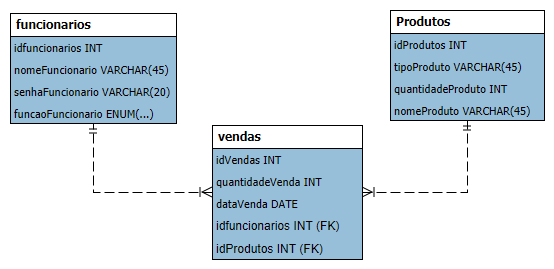
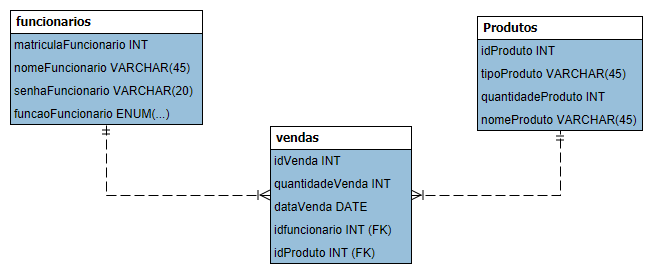
atualização banco de dados
modificado o banco conectado no arquivo de conexão

modificação do modelo logico e fisico, feita atualização de nomenclaturas

modificado os comando do funcionario no repository

diff --git a/lib/repository/funcionario_repository.dart b/lib/repository/funcionario_repository.dart
@@ -6,7 +6,7 @@ class FuncionarioRepository {
 
   Future<List<FuncionarioModels>> getAllFuncionarios() async {
     final connection = await _db.connect();
-    final result = await connection.query('SELECT * FROM funcionario;');
+    final result = await connection.query('SELECT * FROM funcionarios;');
 
     final funcionarios = result
         .map((e) => FuncionarioModels(
@@ -24,7 +24,7 @@ class FuncionarioRepository {
   Future<void> addFuncionario(FuncionarioModels funcionario) async {
     final connection = await _db.connect();
     await connection.query(
-        'insert into funcionario (nomeFuncionario, senhaFuncionario, funcaoFuncionario) values (?, ?, ?);',
+        'insert into funcionarios (nomeFuncionario, senhaFuncionario, funcaoFuncionario) values (?, ?, ?);',
         [
           funcionario.nomeFuncionario,
           funcionario.senhaFuncionario,
@@ -37,7 +37,8 @@ class FuncionarioRepository {
   Future<void> deleteFuncionario(int matricula) async {
     final connection = await _db.connect();
     await connection.query(
-        'delete from funcionario where matriculaFuncionario = ?;', [matricula]);
+        'delete from funcionarios where matriculaFuncionario = ?;',
+        [matricula]);
 
     _db.close();
   }

diff --git a/lib/database/bd.dart b/lib/database/bd.dart
@@ -11,7 +11,7 @@ class BD {
     if (_connection == null) {
       // Configurações da conexão com o banco de dados
       final settings = ConnectionSettings(
-          host: "127.0.0.1", port: 3306, user: "root", db: "easy-store");
+          host: "127.0.0.1", port: 3306, user: "root", db: "simple-api");
       try {
         // Tenta estabelecer a conexão com o banco de dados
         _connection = await MySqlConnection.connect(settings);
